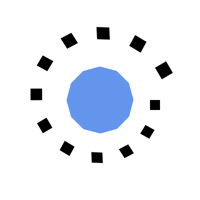
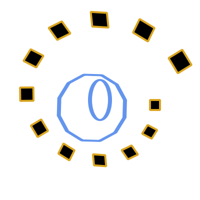
Feedback from PR reviews, beef up tests, fix a couple of bugs.

diff --git a/qt/src/toga_qt/widgets/canvas.py b/qt/src/toga_qt/widgets/canvas.py
@@ -186,8 +186,10 @@ class Context:
     def rotate(self, radians):
         self.native.rotate(degrees(radians))
 
-        # track transforms and adjust path
+        # Update state transform
         self.state.transform.rotateRadians(radians)
+
+        # Transform active path to current coordinates
         inverse = QTransform()
         inverse.rotateRadians(-radians)
         self._path = inverse.map(self._path)
@@ -195,8 +197,10 @@ class Context:
     def scale(self, sx, sy):
         self.native.scale(sx, sy)
 
-        # track transforms and adjust path
+        # Update state transform
         self.state.transform.scale(sx, sy)
+
+        # Transform active path to current coordinates
         inverse = QTransform()
         inverse.scale(1 / sx, 1 / sy)
         self._path = inverse.map(self._path)
@@ -204,16 +208,22 @@ class Context:
     def translate(self, tx, ty):
         self.native.translate(tx, ty)
 
-        # track transforms and adjust path
+        # Update state transform
         self.state.transform.translate(tx, ty)
+
+        # Transform active path to current coordinates
         inverse = QTransform()
-        inverse.scale(-tx, -ty)
+        inverse.translate(-tx, -ty)
         self._path = inverse.map(self._path)
 
     def reset_transform(self):
         transform = self.native.transform()
         self.native.resetTransform()
+
+        # Transform active path to current coordinates
         self._path = transform.map(self._path)
+
+        # Update state transform
         inverse, _ = transform.inverted()
         self.state.transform *= inverse
 

diff --git a/winforms/src/toga_winforms/widgets/canvas.py b/winforms/src/toga_winforms/widgets/canvas.py
@@ -238,8 +238,11 @@ class Context:
 
     def rotate(self, radians):
         self.native.RotateTransform(degrees(radians))
+
+        # Update state transform
         self.state.transform.Rotate(degrees(radians))
 
+        # Transform active path to current coordinates
         inverse = Matrix()
         inverse.Rotate(-degrees(radians))
         for path in self.paths:
@@ -247,8 +250,11 @@ class Context:
 
     def scale(self, sx, sy):
         self.native.ScaleTransform(sx, sy)
+
+        # Update state transform
         self.state.transform.Scale(sx, sy)
 
+        # Transform active path to current coordinates
         inverse = Matrix()
         inverse.Scale(1 / sx, 1 / sy)
         for path in self.paths:
@@ -256,8 +262,11 @@ class Context:
 
     def translate(self, tx, ty):
         self.native.TranslateTransform(tx, ty)
+
+        # Update state transform
         self.state.transform.Translate(tx, ty)
 
+        # Transform active path to current coordinates
         inverse = Matrix()
         inverse.Translate(-tx, -ty)
         for path in self.paths:
@@ -267,6 +276,11 @@ class Context:
         matrix = self.native.Transform
         matrix.Invert()
         self.native.ResetTransform()
+
+        # Update state transform
+        self.state.transform.Multiply(matrix)
+
+        # Transform active path to current coordinates
         for path in self.paths:
             path.Transform(matrix)
 

diff --git a/android/src/toga_android/widgets/canvas.py b/android/src/toga_android/widgets/canvas.py
@@ -173,24 +173,33 @@ class Context:
 
     def rotate(self, radians):
         self.native.rotate(degrees(radians))
+
+        # Update state transform
         self.state.transform.postRotate(degrees(radians))
 
+        # Transform active path to current coordinates
         inverse = Matrix()
         inverse.setRotate(-degrees(radians))
         self.path.transform(inverse)
 
     def scale(self, sx, sy):
         self.native.scale(sx, sy)
+
+        # Update state transform
         self.state.transform.postScale(sx, sy)
 
+        # Transform active path to current coordinates
         inverse = Matrix()
         inverse.setScale(1 / sx, 1 / sy)
         self.path.transform(inverse)
 
     def translate(self, tx, ty):
         self.native.translate(tx, ty)
+
+        # Update state transform
         self.state.transform.postTranslate(tx, ty)
 
+        # Transform active path to current coordinates
         inverse = Matrix()
         inverse.setTranslate(-tx, -ty)
         self.path.transform(inverse)
@@ -205,8 +214,10 @@ class Context:
             inverse = Matrix()
             # if we can't invert, ignore for now
             if state.transform.invert(inverse):  # pragma: no branch
+                # Update current state transform
                 self.state.transform.postConcat(inverse)
 
+        # Rescale to standard units
         self.scale(self.impl.dpi_scale, self.impl.dpi_scale)
 
     # Text

diff --git a/testbed/tests/widgets/test_canvas.py b/testbed/tests/widgets/test_canvas.py
@@ -703,11 +703,14 @@ async def test_transforms_mid_path(canvas, probe):
     # draw a series of rotated rectangles
     canvas.context.begin_path()
     canvas.context.translate(100, 100)
-    for _ in range(12):
-        canvas.context.rect(50, 0, 10, 10)
-        canvas.context.scale(1.05, 1)
-        canvas.context.rotate(math.pi / 6)
-    canvas.context.fill()
+    with canvas.context.Context() as ctx:
+        for _ in range(12):
+            ctx.rect(50, 0, 10, 10)
+            ctx.scale(1.1, 1)
+            ctx.rotate(math.pi / 6)
+
+        canvas.context.fill()
+        canvas.context.stroke(GOLDENROD)
 
     # draw a series of line segments
     canvas.context.begin_path()
@@ -715,7 +718,13 @@ async def test_transforms_mid_path(canvas, probe):
     for _ in range(12):
         canvas.context.line_to(25, 0)
         canvas.context.rotate(math.pi / 6)
-    canvas.context.fill(CORNFLOWERBLUE)
+        canvas.context.translate(5, 3)
+    canvas.context.close_path()
+    canvas.context.reset_transform()
+    canvas.context.move_to(110, 100)
+    canvas.context.scale(2, 1)
+    canvas.context.ellipse(50, 100, 5, 20, 0, 0, 2 * pi)
+    canvas.context.stroke(CORNFLOWERBLUE)
 
     await probe.redraw("Transforms can be applied")
     assert_reference(probe, "transforms_mid_path", threshold=0.013)
